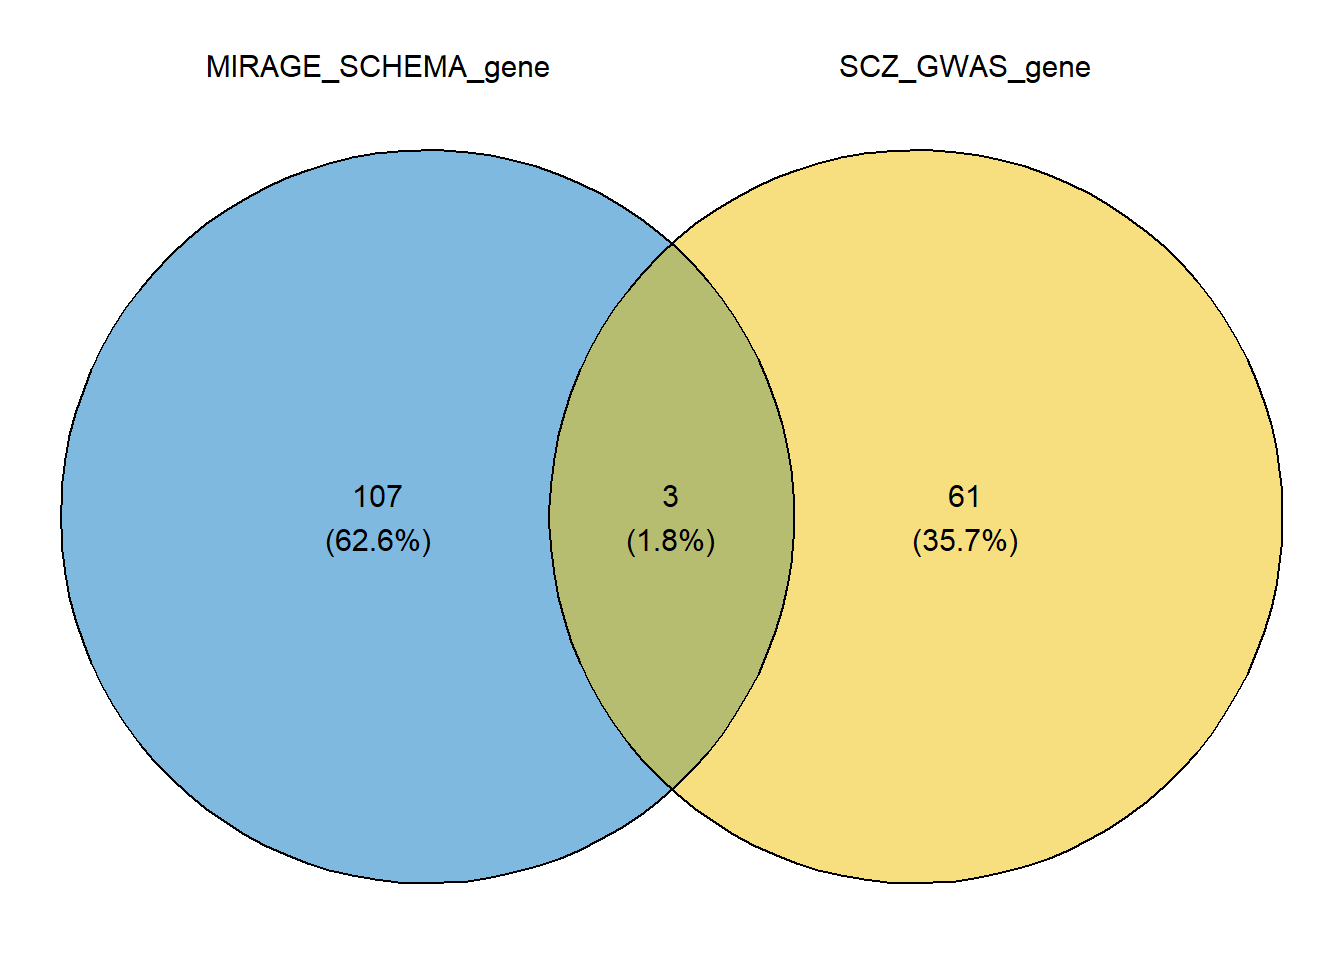
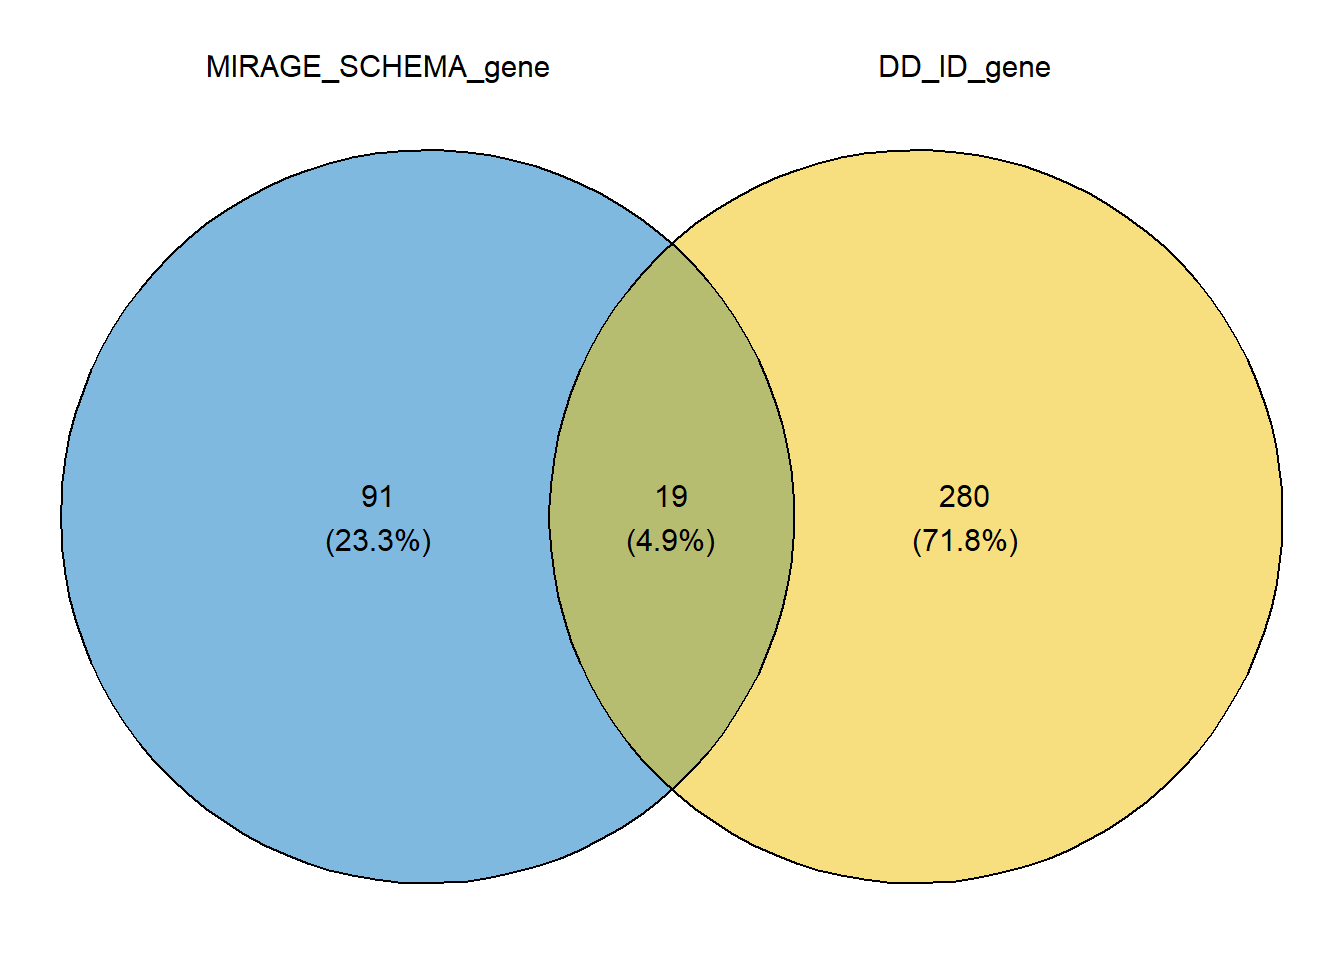
12/20/2023

diff --git a/docs/SCHEMA_constraint_gene.html b/docs/SCHEMA_constraint_gene.html
@@ -562,6 +562,9 @@ unnamed-chunk-21
 unnamed-chunk-22
 </li>
 <li>
+unnamed-chunk-23
+</li>
+<li>
 unnamed-chunk-3
 </li>
 <li>
@@ -609,15 +612,15 @@ project makes it easier to run your code on other machines.</p>
 <div class="panel panel-default">
 <div class="panel-heading">
 <p class="panel-title">
-<a data-toggle="collapse" data-parent="#workflowr-checks" href="#strongRepositoryversionstrongahrefhttpsgithubcomhan16MIRAGEapplicationtree1c0d0e667b75167bc66b840d80eef2a31e668792targetblank1c0d0e6a">
+<a data-toggle="collapse" data-parent="#workflowr-checks" href="#strongRepositoryversionstrongahrefhttpsgithubcomhan16MIRAGEapplicationtree7e19ca4db0b4e7e1759f7429e049001476cec866targetblank7e19ca4a">
 <span class="glyphicon glyphicon-ok text-success"
 aria-hidden="true"></span> <strong>Repository version:</strong>
-<a href="https://github.com/han16/MIRAGE_application/tree/1c0d0e667b75167bc66b840d80eef2a31e668792" target="_blank">1c0d0e6</a>
+<a href="https://github.com/han16/MIRAGE_application/tree/7e19ca4db0b4e7e1759f7429e049001476cec866" target="_blank">7e19ca4</a>
 </a>
 </p>
 </div>
 <div
[2 lines of base64/hex data omitted]
 class="panel-collapse collapse">
 <div class="panel-body">
 <p>
@@ -627,7 +630,7 @@ reproducibility.
 </p>
 <p>
 The results in this page were generated with repository version
-<a href="https://github.com/han16/MIRAGE_application/tree/1c0d0e667b75167bc66b840d80eef2a31e668792" target="_blank">1c0d0e6</a>.
+<a href="https://github.com/han16/MIRAGE_application/tree/7e19ca4db0b4e7e1759f7429e049001476cec866" target="_blank">7e19ca4</a>.
 See the <em>Past versions</em> tab to see a history of the changes made
 to the R Markdown and HTML files.
 </p>
@@ -648,16 +651,17 @@ Ignored files:
     Ignored:    analysis/SCHEMA_manhattan_plot_cache/
 
 Untracked files:
-    Untracked:  analysis/VennDiagram.2023-12-20_09-49-56.641521.log
-    Untracked:  analysis/VennDiagram.2023-12-20_09-50-32.379688.log
-    Untracked:  analysis/VennDiagram.2023-12-20_09-52-27.208453.log
-    Untracked:  analysis/VennDiagram.2023-12-20_09-58-19.56173.log
-    Untracked:  analysis/VennDiagram.2023-12-20_10-01-09.882822.log
-    Untracked:  analysis/VennDiagram.2023-12-20_10-01-41.106616.log
-    Untracked:  analysis/VennDiagram.2023-12-20_10-02-23.050334.log
-    Untracked:  analysis/VennDiagram.2023-12-20_10-02-47.429395.log
-    Untracked:  analysis/VennDiagram.2023-12-20_10-03-59.952039.log
-    Untracked:  analysis/VennDiagram.2023-12-20_10-04-24.830129.log
+    Untracked:  analysis/VennDiagram.2023-12-20_10-25-50.161997.log
+    Untracked:  analysis/VennDiagram.2023-12-20_10-27-38.557871.log
+    Untracked:  analysis/VennDiagram.2023-12-20_10-27-53.620656.log
+    Untracked:  analysis/VennDiagram.2023-12-20_10-28-06.035044.log
+    Untracked:  analysis/VennDiagram.2023-12-20_10-28-27.978392.log
+    Untracked:  analysis/VennDiagram.2023-12-20_10-28-37.270223.log
+    Untracked:  analysis/VennDiagram.2023-12-20_10-29-18.501409.log
+    Untracked:  analysis/VennDiagram.2023-12-20_10-30-10.118944.log
+    Untracked:  analysis/VennDiagram.2023-12-20_10-30-52.357792.log
+    Untracked:  analysis/VennDiagram.2023-12-20_10-31-37.969597.log
+    Untracked:  analysis/VennDiagram.2023-12-20_10-32-11.807103.log
 
 Unstaged changes:
     Modified:   analysis/SCHEMA_constraint_gene.Rmd
@@ -707,6 +711,40 @@ Message
 </tr>
 </thead>
 <tbody>
+<tr>
+<td>
+Rmd
+</td>
+<td>
+<a href="https://github.com/han16/MIRAGE_application/blob/7e19ca4db0b4e7e1759f7429e049001476cec866/analysis/SCHEMA_constraint_gene.Rmd" target="_blank">7e19ca4</a>
+</td>
+<td>
+han
+</td>
+<td>
+2023-12-20
+</td>
+<td>
+12/20/2023
+</td>
+</tr>
+<tr>
+<td>
+html
+</td>
+<td>
+<a href="https://rawcdn.githack.com/han16/MIRAGE_application/7e19ca4db0b4e7e1759f7429e049001476cec866/docs/SCHEMA_constraint_gene.html" target="_blank">7e19ca4</a>
+</td>
+<td>
+han
+</td>
+<td>
+2023-12-20
+</td>
+<td>
+12/20/2023
+</td>
+</tr>
 <tr>
 <td>
 Rmd
@@ -1579,6 +1617,7 @@ han
 </div>
 </div>
 <pre><code>(polygon[GRID.polygon.25], polygon[GRID.polygon.26], polygon[GRID.polygon.27], polygon[GRID.polygon.28], polygon[GRID.polygon.29], polygon[GRID.polygon.30], text[GRID.text.31], text[GRID.text.32], text[GRID.text.33], text[GRID.text.34], text[GRID.text.35], text[GRID.text.36], text[GRID.text.37]) </code></pre>
+<p><img src="figure/SCHEMA_constraint_gene.Rmd/unnamed-chunk-19-1.png" width="672" style="display: block; margin: auto;" /></p>
 </div>
 </div>
 </div>
@@ -1589,50 +1628,6 @@ class="section level2">
 <li>shared genes with autism</li>
 </ul>
 <pre><code>[1] &quot;DSCAM&quot;  &quot;SHANK3&quot; &quot;KDM6B&quot;  &quot;ANK2&quot;   &quot;ASH1L&quot;  &quot;NRXN1&quot;  &quot;SATB1&quot; </code></pre>
-<p><img src="figure/SCHEMA_constraint_gene.Rmd/unnamed-chunk-20-1.png" width="672" style="display: block; margin: auto;" /></p>
-<p>
-<button type="button" class="btn btn-default btn-xs btn-workflowr btn-workflowr-fig" data-toggle="collapse" data-target="#fig-unnamed-chunk-20-1">
-Past versions of unnamed-chunk-20-1.png
-</button>
-</p>
-<div id="fig-unnamed-chunk-20-1" class="collapse">
-<div class="table-responsive">
-<table class="table table-condensed table-hover">
-<thead>
-<tr>
-<th>
-Version
-</th>
-<th>
-Author
-</th>
-<th>
-Date
-</th>
-</tr>
-</thead>
-<tbody>
-<tr>
-<td>
-<a href="https://github.com/han16/MIRAGE_application/blob/f741f4aa33273dd6e6a89bcdfe9a5bf6e54b8c2d/docs/figure/SCHEMA_constraint_gene.Rmd/unnamed-chunk-20-1.png" target="_blank">f741f4a</a>
-</td>
-<td>
-han
-</td>
-<td>
-2023-12-19
-</td>
-</tr>
-</tbody>
-</table>
-</div>
-</div>
-<ul>
-<li>shared genes with DD/ID genes</li>
-</ul>
-<pre><code> [1] &quot;ZMYM2&quot;   &quot;SHANK3&quot;  &quot;STAG1&quot;   &quot;GRIN2A&quot;  &quot;ZMYND11&quot; &quot;KDM6B&quot;   &quot;PCDH19&quot; 
- [8] &quot;HIVEP2&quot;  &quot;TRIO&quot;    &quot;ASH1L&quot;   &quot;SETD1A&quot;  &quot;SRRM2&quot;   &quot;CACNA1G&quot; &quot;PPP2R1A&quot;
-[15] &quot;BMPR2&quot;   &quot;CLTC&quot;    &quot;ADCY5&quot;   &quot;CACNA1C&quot; &quot;SATB1&quot;  </code></pre>
 <p><img src="figure/SCHEMA_constraint_gene.Rmd/unnamed-chunk-21-1.png" width="672" style="display: block; margin: auto;" /></p>
 <p>
 <button type="button" class="btn btn-default btn-xs btn-workflowr btn-workflowr-fig" data-toggle="collapse" data-target="#fig-unnamed-chunk-21-1">
@@ -1672,9 +1667,11 @@ han
 </div>
 </div>
 <ul>
-<li>shared genes with Schizophrenia GWAS genes</li>
+<li>shared genes with DD/ID genes</li>
 </ul>
-<pre><code>[1] &quot;SP4&quot;     &quot;GRIN2A&quot;  &quot;CACNA1C&quot;</code></pre>
+<pre><code> [1] &quot;ZMYM2&quot;   &quot;SHANK3&quot;  &quot;STAG1&quot;   &quot;GRIN2A&quot;  &quot;ZMYND11&quot; &quot;KDM6B&quot;   &quot;PCDH19&quot; 
+ [8] &quot;HIVEP2&quot;  &quot;TRIO&quot;    &quot;ASH1L&quot;   &quot;SETD1A&quot;  &quot;SRRM2&quot;   &quot;CACNA1G&quot; &quot;PPP2R1A&quot;
+[15] &quot;BMPR2&quot;   &quot;CLTC&quot;    &quot;ADCY5&quot;   &quot;CACNA1C&quot; &quot;SATB1&quot;  </code></pre>
 <p><img src="figure/SCHEMA_constraint_gene.Rmd/unnamed-chunk-22-1.png" width="672" style="display: block; margin: auto;" /></p>
 <p>
 <button type="button" class="btn btn-default btn-xs btn-workflowr btn-workflowr-fig" data-toggle="collapse" data-target="#fig-unnamed-chunk-22-1">
@@ -1713,7 +1710,49 @@ han
 </table>
 </div>
 </div>
+<ul>
+<li>shared genes with Schizophrenia GWAS genes</li>
+</ul>
+<pre><code>[1] &quot;SP4&quot;     &quot;GRIN2A&quot;  &quot;CACNA1C&quot;</code></pre>
 <p><img src="figure/SCHEMA_constraint_gene.Rmd/unnamed-chunk-23-1.png" width="672" style="display: block; margin: auto;" /></p>
+<p>
+<button type="button" class="btn btn-default btn-xs btn-workflowr btn-workflowr-fig" data-toggle="collapse" data-target="#fig-unnamed-chunk-23-1">
+Past versions of unnamed-chunk-23-1.png
+</button>
+</p>
+<div id="fig-unnamed-chunk-23-1" class="collapse">
+<div class="table-responsive">
+<table class="table table-condensed table-hover">
+<thead>
+<tr>
+<th>
+Version
+</th>
+<th>
+Author
+</th>
+<th>
+Date
+</th>
+</tr>
+</thead>
+<tbody>
+<tr>
+<td>
+<a href="https://github.com/han16/MIRAGE_application/blob/7e19ca4db0b4e7e1759f7429e049001476cec866/docs/figure/SCHEMA_constraint_gene.Rmd/unnamed-chunk-23-1.png" target="_blank">7e19ca4</a>
+</td>
+<td>
+han
+</td>
+<td>
+2023-12-20
+</td>
+</tr>
+</tbody>
+</table>
+</div>
+</div>
+<p><img src="figure/SCHEMA_constraint_gene.Rmd/unnamed-chunk-24-1.png" width="672" style="display: block; margin: auto;" /></p>
 <br>
 <p>
 <button type="button" class="btn btn-default btn-workflowr btn-workflowr-sessioninfo" data-toggle="collapse" data-target="#workflowr-sessioninfo" style="display: block;">
